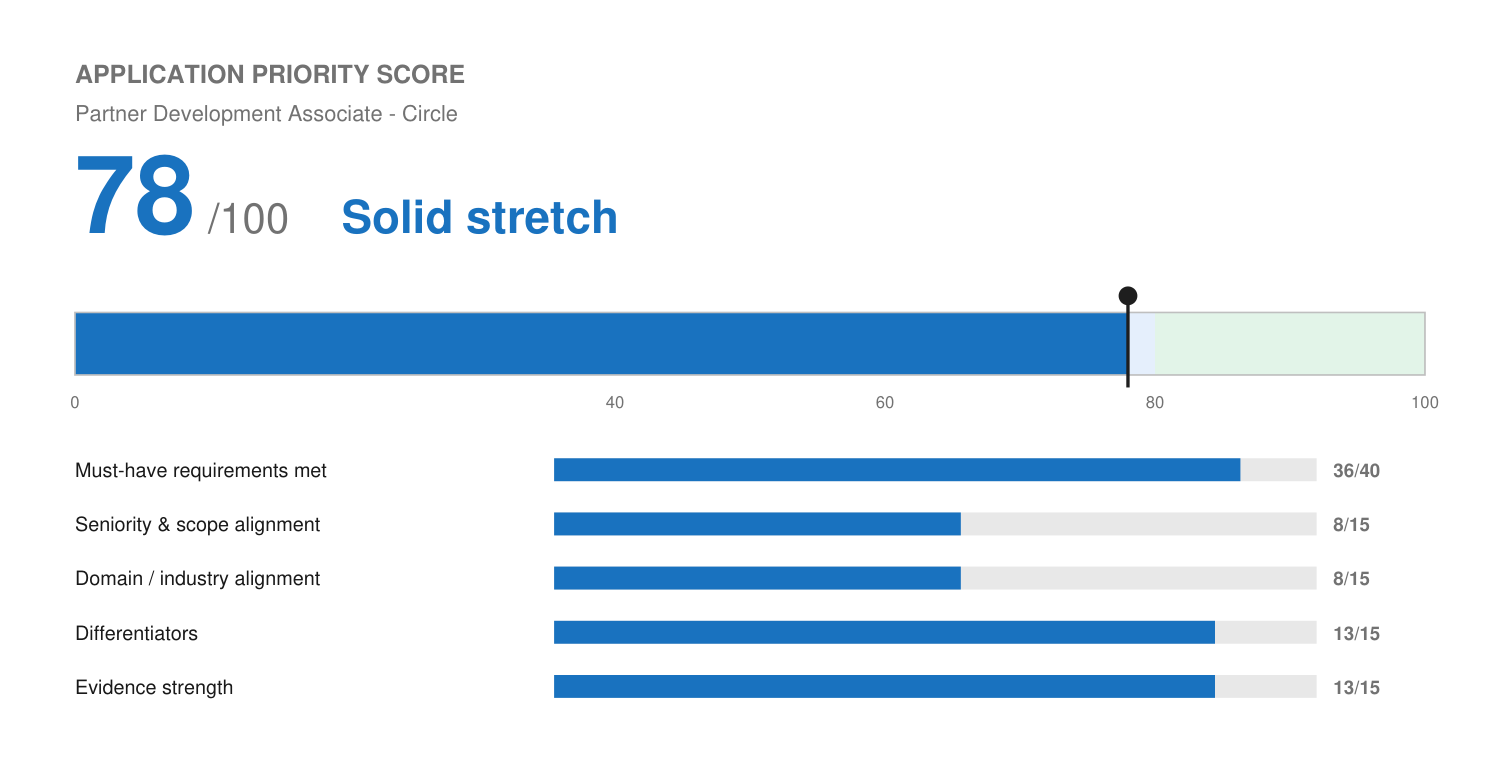
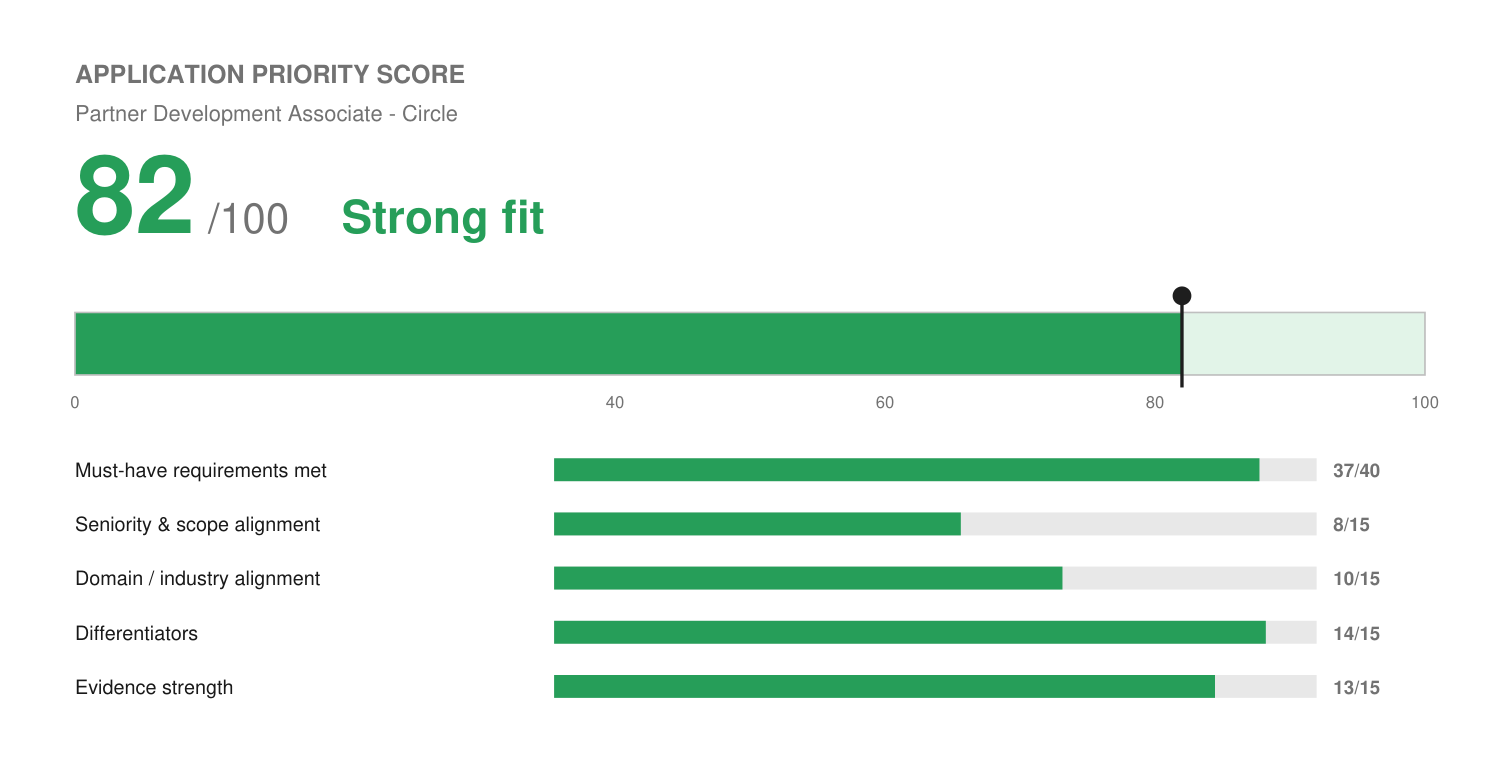
Circle Partner Development Associate: rescored 82 (Strong fit); profile adds stablecoin interest, community channels
Claude-Session: https://claude.ai/code/session_01HUxzaee8VTv7sJJkCcz6f3

diff --git a/applications/circle-partner-development-associate/match-report.md b/applications/circle-partner-development-associate/match-report.md
@@ -20,28 +20,28 @@ No knockouts.
 | 2+ yrs customer/partner-facing, BD, SDR, or commercial | Resume-evidenced | **Covered, far past.** BDR at Senior Directory, AE roles, Birdeye channel partners. |
 | Manage prioritized pipeline, discovery, next step | Resume-evidenced | Covered. Career-long pipeline/forecast hygiene; discovery at every sales role. |
 | Fintech / payments / digital-asset concepts | Resume-evidenced | **Partial.** Banking client + finalist bank pursuit at Fetch & Funnel; genuine personal interest in financial services. No crypto/stablecoin experience on file. |
-| Communities on LinkedIn, X, Telegram, Discord | Preferred | LinkedIn covered (organic growth for Solenzo audit offer). **X/Telegram/Discord need confirmation.** |
+| Communities on LinkedIn, X, Telegram, Discord | Preferred | **Covered.** LinkedIn plus X/Telegram/Discord confirmed Oct 12. |
 
 ---
 
 ## Application Priority Score
 
 ```
-🔵 Application Priority Score: 78 / 100 — Solid stretch
-[████████████████░░░░]  78%
+🟢 Application Priority Score: 82 / 100 — Strong fit
+[████████████████░░░░]  82%
 ```
 
 *Internal decision aid based on evidence in the master profile. Not a prediction of Circle's screening, ATS output, or hiring decision.* See `fit.png`.
 
 | Dimension | Score | Reasoning |
 | :--- | :--- | :--- |
-| Must-have requirements met | 36 / 40 | Experience, pipeline/discovery, communication, routing judgment, CRM hygiene, and cross-functional work all land. Fintech/digital-asset fluency is partial. |
+| Must-have requirements met | 37 / 40 | Experience, pipeline/discovery, communication, routing judgment, CRM hygiene, and cross-functional work all land. Fintech/digital-asset fluency is partial. |
 | Seniority & scope alignment | 8 / 15 | Associate-level, 2+ yrs. Overqualified on paper; recruiters may question why. Cover letter frames it around qualification-system expertise. |
-| Domain / industry alignment | 8 / 15 | Banking-client and bank-pursuit exposure is real but agency-side. No crypto, stablecoin, or payments-product background. |
-| Differentiators | 13 / 15 | Has built the lead scoring, qualification, and routing systems himself, plus LLM/API workflow automation. Directly matches "use CRM, AI-enabled tools... to improve prioritization." |
+| Domain / industry alignment | 10 / 15 | Banking-client and bank-pursuit exposure is real but agency-side. Personal interest in stablecoins/USDC confirmed (Oct 12); still no professional crypto or payments-product background. |
+| Differentiators | 14 / 15 | Community engagement on X/Telegram/Discord confirmed (Oct 12). Has built the lead scoring, qualification, and routing systems himself, plus LLM/API workflow automation. Directly matches "use CRM, AI-enabled tools... to improve prioritization." |
 | Evidence strength | 13 / 15 | Top three of 8-15 reps, ~94% partner retention, 50+ activities/day, 20+ routing workflows. No inbound SLA or response-time metric. |
 
-**Band: Solid stretch.** Pay is the best of anything recent and the mechanics fit well. Domain is the gap, and the role shape (inbound queue, qualify and hand off) is not his preferred "inherit and grow a book" shape, though inbound is warm, not cold hunting.
+**Band: Strong fit** (rescored from 78 after Oct 12 confirmations). Pay is the best of anything recent and the mechanics fit well. Domain is the gap, and the role shape (inbound queue, qualify and hand off) is not his preferred "inherit and grow a book" shape, though inbound is warm, not cold hunting.
 
 ---
 
@@ -73,9 +73,7 @@ No knockouts.
 
 ## Candidate confirmation needed
 
-- **Digital assets interest:** any personal use of or study in crypto/stablecoins/USDC you can speak to for two minutes? Would strengthen the cover letter.
-- **X, Telegram, Discord:** have you engaged professional communities on any of these?
-- **Response-time numbers:** any inbound speed-to-lead figure from Solenzo automations?
+Resolved Oct 12: stablecoin/USDC interest (yes), X/Telegram/Discord communities (yes). Open: the actual Solenzo speed-to-lead number (Josh has one, not yet supplied).
 
 ## Metrics needed
 

diff --git a/profile/master-profile.md b/profile/master-profile.md
@@ -184,6 +184,18 @@ band.
   (e.g., Eltropy) alongside the Fetch & Funnel banking-client experience above, kept
   explicitly distinct from it: this is personal motivation, that is professional evidence.
 
+## Digital assets / stablecoins and online communities (confirmed by Josh, Oct 2026, Circle)
+
+- **Personal interest in crypto, stablecoins, and USDC** that he can talk about for two
+  minutes. Personal interest, not professional crypto/payments experience; keep that
+  distinction. Whether this includes hands-on wallet/stablecoin use isn't specified; ask
+  before claiming use.
+- **Has engaged professional communities on X, Telegram, and/or Discord** (answered yes to
+  all three as a group). Specific communities/platform split not captured; claim generally
+  ("online professional communities") unless Josh names them.
+- **Has inbound response-time / speed-to-lead figures from Solenzo automations** — the
+  number itself is not yet captured (see Numbers Worth Capturing).
+
 ## Personal commitment to immigrant and refugee communities (confirmed Sep 2026)
 
 - Josh has confirmed a full, genuine personal commitment to helping immigrant and refugee
@@ -806,6 +818,8 @@ with its scope and delete the line here.
 only), outbound tool names (Apollo, HeyReach, Salesloft, Marketo, Mailchimp).
 
 **Role-specific:**
+- **Solenzo speed-to-lead.** Josh confirmed he has response-time numbers from his inbound
+  automations (Oct 2026, Circle); actual figure and before/after not yet captured.
 - **Cold-email deliverability setup.** Whether he configured sending domains/warm-up
   himself. Ask only when a posting names it.
 - **1,400+ contact CRM cleanup context.** Which client/role and which CRM. Josh says he's
